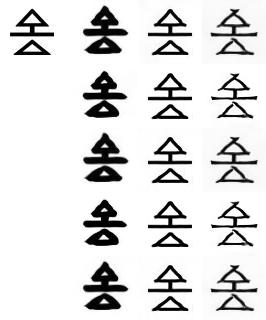
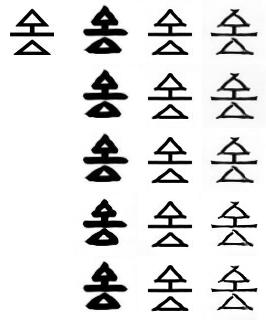
드디어 된다!!

diff --git a/StarGAN_v2.py b/StarGAN_v2.py
@@ -616,9 +616,17 @@ class StarGAN_v2():
     def practice(self):
         source_path = os.path.join(self.practice_dataset_path, 'src_imgs')
 
-        # generate source image
         unicode_list = self.read_text()
+        
+        # find LineFeed letter index
+        unicode_list.append('\n')   #for check last index
+        unicode_arr = np.array(unicode_list)   
+        lf_idx = np.where(unicode_arr == '\n')[0]
+        
+        # generate source image
         F2I.save_dataset(source_path=source_path, unicode_list=unicode_list)
+
+        save_path = './{}/practice.jpg'.format(self.result_dir)
 
         source_images = glob(os.path.join(source_path, '*.png')) + glob(os.path.join(source_path, '*.jpg'))
         source_images = sorted(source_images)
@@ -671,13 +679,6 @@ class StarGAN_v2():
                 ref_img = tf.concat([ref_img, ref_img_], axis=0)
                 ref_img_domain = tf.concat([ref_img_domain, ref_img_domain_], axis=0)
 
-        save_path = './{}/practice.jpg'.format(self.result_dir)
-
-        # find LineFeed letter index
-        unicode_list.append('\n')   #for check last index
-        unicode_arr = np.array(unicode_list)   
-        lf_idx = np.where(unicode_arr == '\n')[0]
-
         self.practice_canvas(src_img, ref_img, ref_img_domain, save_path, lf_idx,
                             img_num=[len(source_images), len(reference_images)])
 
@@ -706,46 +707,38 @@ class StarGAN_v2():
         x_ref = x_ref[:ref_img_num]
         y_trg = y_trg[:ref_img_num]
 
-        # linefeed character index
-        lf1 = []
-        for i, idx in enumerate(lf_idx):
-            lf1.append(i)    
-        linefeed_idx = np.delete((lf_idx-lf1), -1)
+        # # linefeed character index
+        # lf1 = []
+        # for i, idx in enumerate(lf_idx):
+        #     lf1.append(i+1)    
+        # linefeed_idx = np.delete((lf_idx-lf1), -1)
 
         # letters per line
         lf2 = np.insert(lf_idx + 1, 0, 0)
         lf3 = np.append(lf_idx, 0)
         letters_per_line = np.delete((lf3-lf2), -1)
 
-        canvas = PIL.Image.new('RGB', (self.img_size * max(letters_per_line) + 10, self.img_size * len(letters_per_line) + 10),'white')
+        canvas = PIL.Image.new('RGB', (self.img_size * max(letters_per_line), self.img_size * len(letters_per_line)),'white')
+        
         x_ref_post = postprocess_images(x_ref)
-
-        x_ref_post_splits = []
-        for i, idx in enumerate(linefeed_idx):
-            if i==0:
-                x_ref_post_splits.append(x_ref_post[:idx])
-            elif i==len(linefeed_idx)-1:
-                x_ref_post_splits.append(x_ref_post[idx:])
-            else:
-                x_ref_post_splits.append(x_ref_post[linefeed_idx[i]:linefeed_idx[i+1]])
             
-        for x_ref_post_split in x_ref_post_splits:
-            for row, dst_image in enumerate(list(x_ref_post_split)):
-                row_images = np.stack([dst_image] * src_img_num)
-                row_images = preprocess_fit_train_image(row_images)
-                row_images_y = np.stack([y_trg[row]] * src_img_num)
+        for row, dst_image in enumerate(list(x_ref_post)):
+            row_images = np.stack([dst_image] * src_img_num)
+            row_images = preprocess_fit_train_image(row_images)
+            row_images_y = np.stack([y_trg[row]] * src_img_num)
 
-                s_trg = self.style_encoder_ema([row_images, row_images_y])
-                row_fake_images = postprocess_images(self.generator_ema([x_real, s_trg]))
-                
-                c, r, i =0, 0, 0
-                for col, image in enumerate(list(row_fake_images)):
-                    if linefeed_idx[i]==c:
-                        c=0
-                        r+=1
-                        i+=1
-                    canvas.paste(PIL.Image.fromarray(np.uint8(image), 'RGB'),
-                                ((c) * self.img_size, (r) * self.img_size))
-                    c+=1    
-
+            s_trg = self.style_encoder_ema([row_images, row_images_y])
+            row_fake_images = postprocess_images(self.generator_ema([x_real, s_trg]))
+            
+            c, r = 0, 0
+            for col, image in enumerate(list(row_fake_images)):
+                canvas.paste(PIL.Image.fromarray(np.uint8(image), 'RGB'),
+                            ((c) * self.img_size, (r) * self.img_size))
+                c+=1  
+                if letters_per_line[r]==c:
+                    c=0
+                    r+=1
+            
+            break
+                    
         canvas.save(path)
